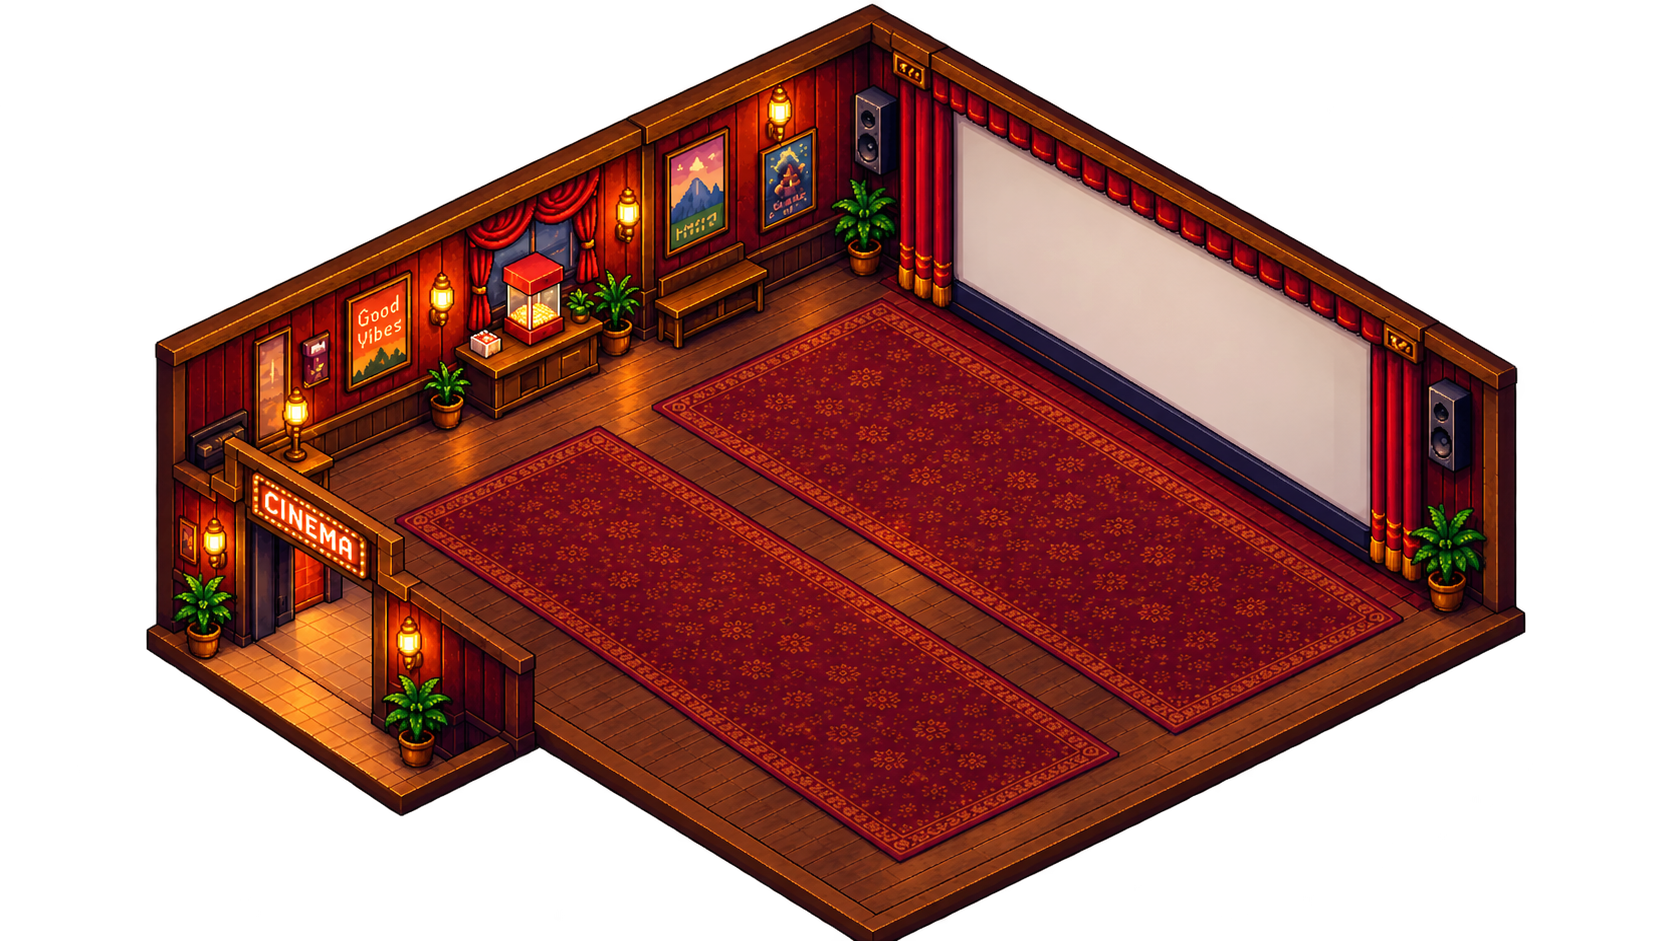
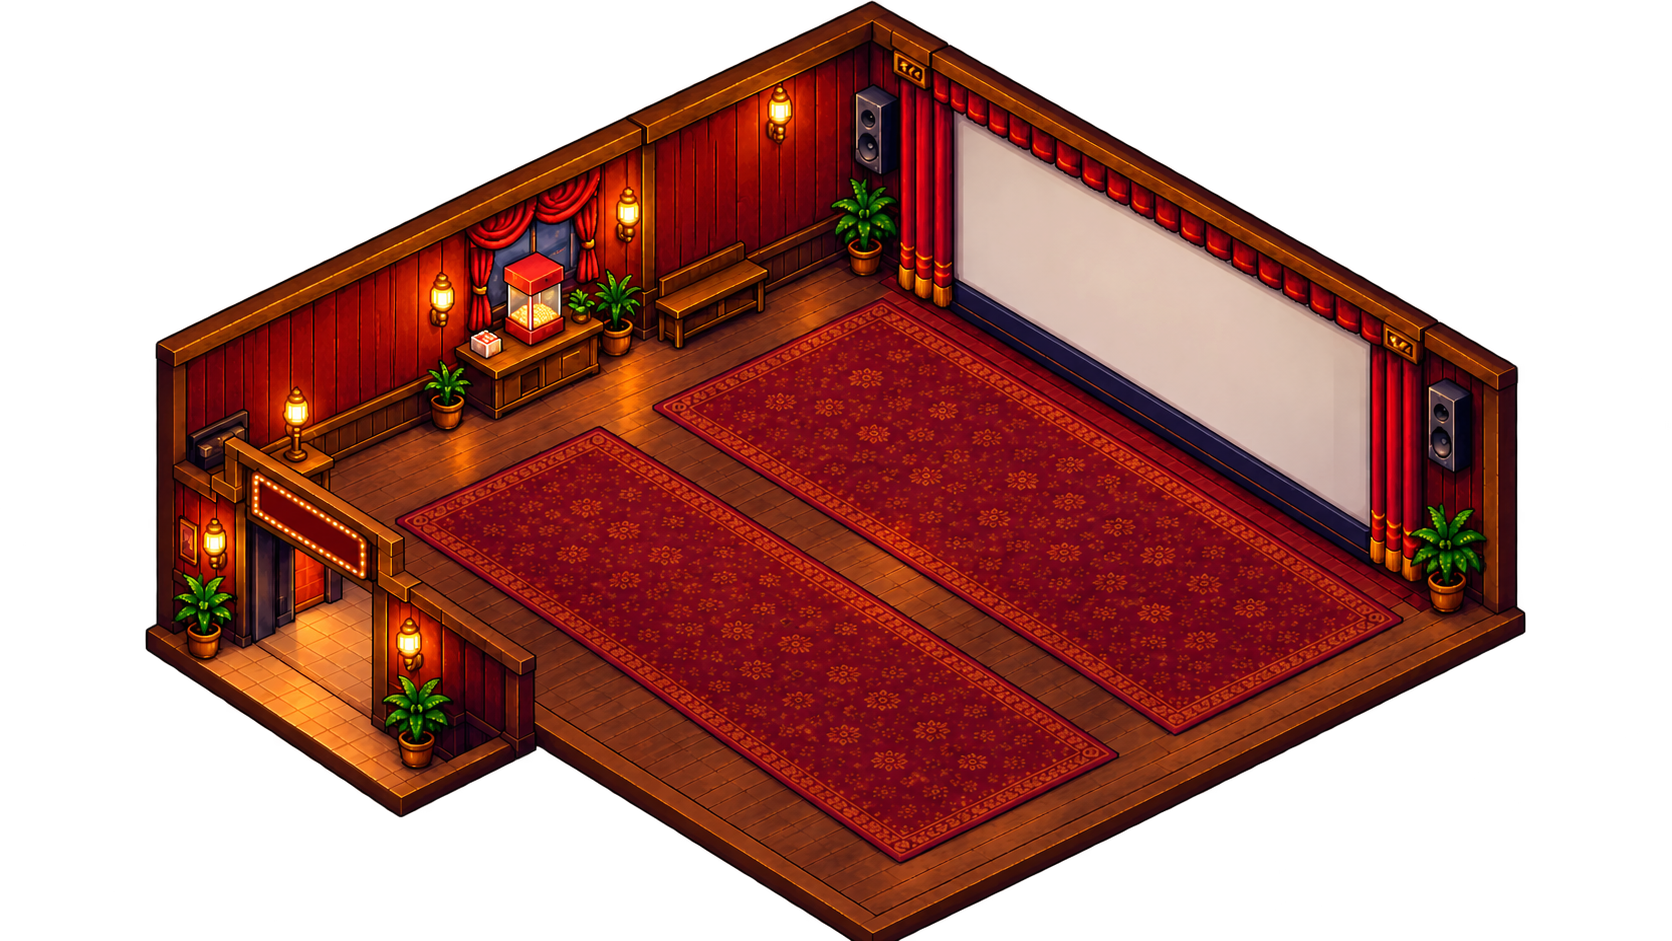
Add customizable wall posters and fitted marquee text

diff --git a/js/decor.js b/js/decor.js
@@ -1,0 +1,104 @@
+/* Independent wall art and fitted marquee lettering, cached at scene creation. */
+(function () {
+  'use strict';
+  const VC = window.VC;
+  const D = (VC.Decor = {});
+  // Corners in the original 1672×941 artwork: top-left, top-right, bottom-left.
+  // The frames remain part of each object, rather than part of the room.
+  D.slots = [
+    { id: 'sunset', corners: [[253, 342], [291, 324], [253, 450]] },
+    { id: 'small', corners: [[302, 342], [331, 328], [302, 389]] },
+    { id: 'goodVibes', corners: [[344, 300], [413, 267], [344, 396]] },
+    { id: 'mountains', corners: [[662, 158], [733, 123], [662, 264]] },
+    { id: 'space', corners: [[755, 155], [819, 124], [755, 258]] }
+  ];
+  const replacements = new Map();
+  D.ready = async function (config = {}) {
+    replacements.clear();
+    await Promise.all(D.slots.map(async ({ id }) => {
+      const src = config && config[id];
+      if (typeof src !== 'string' || !src.trim()) return;
+      const image = new Image();
+      try {
+        await new Promise((resolve, reject) => {
+          image.onload = resolve;
+          image.onerror = reject;
+          image.src = src;
+        });
+        replacements.set(id, image);
+      } catch (_) {
+        console.warn('Cannot load poster ' + id + ': ' + src + '; using bundled artwork');
+      }
+    }));
+  };
+
+  function canvas(w, h) {
+    const c = document.createElement('canvas');
+    c.width = w;
+    c.height = h;
+    return c;
+  }
+  D.posters = function (atlas, config = {}) {
+    return D.slots.filter(({ id }) => !config || config[id] !== null).map(({ id, corners }) => {
+      const [a, b, d] = corners;
+      const c = [b[0] + d[0] - a[0], b[1] + d[1] - a[1]];
+      const points = [a, b, c, d];
+      const x = Math.floor(Math.min(...points.map(p => p[0])) - 2);
+      const y = Math.floor(Math.min(...points.map(p => p[1])) - 2);
+      const w = Math.ceil(Math.max(...points.map(p => p[0])) - x + 2);
+      const h = Math.ceil(Math.max(...points.map(p => p[1])) - y + 2);
+      const image = canvas(w, h), ctx = image.getContext('2d');
+      ctx.filter = 'brightness(.9) saturate(.94)';
+      ctx.translate(-x, -y);
+      ctx.beginPath();
+      points.forEach((p, i) => i ? ctx.lineTo(...p) : ctx.moveTo(...p));
+      ctx.closePath();
+      ctx.clip();
+      ctx.drawImage(atlas, 0, 0);
+      const replacement = replacements.get(id);
+      if (replacement) {
+        // Derive each frame's aspect ratio before applying the wall shear.
+        // The narrow sunset frame must not stretch a standard poster texture.
+        const height = 240 * (d[1] - a[1]) / (b[0] - a[0]);
+        ctx.transform((b[0] - a[0]) / 240, (b[1] - a[1]) / 240,
+          (d[0] - a[0]) / height, (d[1] - a[1]) / height, ...a);
+        // Keep the original frame. Crop the replacement centrally, without distortion.
+        const iw = 204, ih = height * 316 / 360;
+        const scale = Math.max(iw / replacement.width, ih / replacement.height);
+        const sw = iw / scale, sh = ih / scale;
+        ctx.drawImage(replacement, (replacement.width - sw) / 2, (replacement.height - sh) / 2,
+          sw, sh, 18, height * 22 / 360, iw, ih);
+      }
+      return { id, image, x: 12 + x * 936 / 1672, y: 6 + y * 527 / 941,
+        w: w * 936 / 1672, h: h * 527 / 941 };
+    });
+  };
+
+  D.sign = function (value) {
+    const text = String(value ?? 'CINEMA').replace(/\s+/gu, ' ').trim();
+    const image = canvas(640, 160), ctx = image.getContext('2d');
+    ctx.font = '700 120px "Pixelify Sans", "Trebuchet MS", sans-serif';
+    const metrics = ctx.measureText(text);
+    const left = metrics.actualBoundingBoxLeft || 0;
+    const right = metrics.actualBoundingBoxRight || metrics.width;
+    const ascent = metrics.actualBoundingBoxAscent || 90;
+    const descent = metrics.actualBoundingBoxDescent || 0;
+    const width = Math.max(metrics.width, left + right, 1);
+    const height = Math.max(ascent + descent, 1);
+    const scale = Math.min(592 / width, 128 / height);
+    ctx.translate(image.width / 2, image.height / 2);
+    ctx.scale(scale, scale);
+    ctx.fillStyle = '#ffe7a4';
+    ctx.shadowColor = '#ffad48';
+    ctx.shadowBlur = 4;
+    ctx.fillText(text, (left - right) / 2, (ascent - descent) / 2);
+    return { text, image, scale, width: width * scale, height: height * scale };
+  };
+  // Draw within the painted lightbox; the affine transform follows its facade.
+  D.drawSign = function (ctx, sign) {
+    ctx.save();
+    ctx.transform(94 / 640, 53 / 640, 0, 24 / 160, 262, 486);
+    ctx.drawImage(sign.image, 0, 0);
+    ctx.restore();
+  };
+})();

diff --git a/js/scene.js b/js/scene.js
@@ -539,7 +539,7 @@
     plant(ctx, 0.4, y + 1.35, 1.1);
     plant(ctx, 4.8, y + 1.35, 1.1);
   }
-  function entrance(ctx) {
+  function entrance(ctx, signText) {
     const y = L.D + 0.05,
       a = L.DOOR_X0,
       b = L.DOOR_X1,
@@ -564,7 +564,7 @@
       box(ctx, x, y - 0.1, 0.13, 0.25, 0, h + 0.1, '#c28e50', '#8d5534', '#422832');
     line(ctx, face(a + 0.03, h), face(b - 0.03, h), '#d3a263', 2);
     line(ctx, face(0, 4.2), face(5.3, 4.2), '#cc9551', 3);
-    // Warm lightbox and hand-rastered 5x7 lettering, projected down-right.
+    // Warm lightbox with fitted lettering, projected down-right.
     poly(
       ctx,
       [
@@ -587,33 +587,15 @@
       '#70382a',
       '#ffd381'
     );
-    const letters = {
-      C: ['01111', '11000', '11000', '11000', '11000', '11000', '01111'],
-      I: ['11111', '00100', '00100', '00100', '00100', '00100', '11111'],
-      N: ['10001', '11001', '11001', '10101', '10011', '10011', '10001'],
-      E: ['11111', '10000', '10000', '11110', '10000', '10000', '11111'],
-      M: ['10001', '11011', '10101', '10101', '10001', '10001', '10001'],
-      A: ['01110', '11011', '10001', '10001', '11111', '10001', '10001']
-    };
-    'CINEMA'.split('').forEach((letter, i) =>
-      letters[letter].forEach((row, j) =>
-        row.split('').forEach((v, k) => {
-          if (v === '0') return;
-          const x = 0.82 + (i * 6 + k) * 0.105,
-            z = 3.83 - j * 0.062;
-          poly(
-            ctx,
-            [
-              [x, y + 0.23, z],
-              [x + 0.089, y + 0.23, z],
-              [x + 0.089, y + 0.23, z - 0.052],
-              [x, y + 0.23, z - 0.052]
-            ],
-            '#ffe7a4'
-          );
-        })
-      )
-    );
+    const sign = VC.Decor.sign(signText);
+    const p = P(0.5, y + 0.23, 3.88),
+      q = P(4.8, y + 0.23, 3.88),
+      r = P(0.5, y + 0.23, 3.36);
+    ctx.save();
+    ctx.transform((q.x - p.x) / 640, (q.y - p.y) / 640,
+      (r.x - p.x) / 160, (r.y - p.y) / 160, p.x, p.y);
+    ctx.drawImage(sign.image, 0, 0);
+    ctx.restore();
     for (let x = 0.45; x < 5; x += 0.23)
       for (const z of [3.3, 3.95]) dot(ctx, x, y + 0.23, z, '#ffeaa1', 1);
     lantern(ctx, (x, z) => [x, y + 0.15, z], 0.57, 2.1);
@@ -770,8 +752,8 @@
     });
     return { cushion: cushion.c, back: backLayer.c, ax, ay };
   }
-  VC.buildScene = function () {
-    if (VC.Art.available) return VC.Art.scene();
+  VC.buildScene = function (opts = {}) {
+    if (VC.Art.available) return VC.Art.scene(opts);
     const bg = canvas(L.VIEW_W, L.VIEW_H),
       fg = canvas(L.VIEW_W, L.VIEW_H),
       ctx = bg.ctx;
@@ -840,7 +822,7 @@
     }
     counter(ctx);
     entranceFloor(ctx);
-    entrance(fg.ctx);
+    entrance(fg.ctx, opts.signText);
     plant(ctx, 0.7, 1.0, 1.0);
     plant(ctx, L.W - 0.7, 0.8, 1.1);
     plant(ctx, 0.65, 14.3, 0.85);

diff --git a/js/art.js b/js/art.js
@@ -5,6 +5,7 @@
   const A = (VC.Art = { images: {}, ready: null, available: false });
   const sources = {
     room: 'assets/art/cinema-room.png',
+    posters: 'assets/art/cinema-posters.png',
     chair: 'assets/art/cinema-chair.png',
     viewers: 'assets/art/viewers.png',
     viewersExtra: 'assets/art/viewers-extra.png'
@@ -80,7 +81,7 @@
     c.height = h;
     return c;
   }
-  A.scene = function () {
+  A.scene = function (opts = {}) {
     const L = VC.Layout,
       bg = canvas(1920, 1080),
       fg = canvas(1920, 1080);
@@ -90,7 +91,13 @@
     ctx.imageSmoothingQuality = 'high';
     ctx.filter = 'brightness(.9) saturate(.94)';
     // Preserve the original fine detail: no low-resolution intermediate canvas.
-    ctx.drawImage(A.images.room, 24, 12, 1872, 1054);
+    const sign = VC.Decor.sign(opts.signText);
+    // Use the identical decorated room for the background and facade mask,
+    // so the foreground cannot cover the configurable text with old pixels.
+    const room = canvas(1672, 941), roomCtx = room.getContext('2d');
+    roomCtx.drawImage(A.images.room, 0, 0);
+    VC.Decor.drawSign(roomCtx, sign);
+    ctx.drawImage(room, 24, 12, 1872, 1054);
     const F = (x, y) => ({ x: 12 + x * 0.56, y: 6 + y * 0.56 });
     // Foreground facade, including its genuine door opening. Copy the painted
     // pixels after the actors so walkers pass behind the wall and through the door.
@@ -114,7 +121,7 @@
     });
     front.closePath();
     front.clip();
-    front.drawImage(A.images.room, 12, 6, 936, 527);
+    front.drawImage(room, 12, 6, 936, 527);
     front.restore();
     front.save();
     front.scale(2, 2);
@@ -134,7 +141,8 @@
       col: '255,172,74',
       a: 0.035
     }));
-    return { bg, fg, seats: A.seats(), lights, screenGlow: F(1190, 465), illustrated: true };
+    return { bg, fg, posters: VC.Decor.posters(A.images.posters, opts.posters), sign,
+      seats: A.seats(), lights, screenGlow: F(1190, 465), illustrated: true };
   };
   A.railings = function (ctx) {
     const L = VC.Layout,

diff --git a/js/main.js b/js/main.js
@@ -20,6 +20,7 @@
     if (q.has('bg')) base.background = q.get('bg');
     if (q.has('seats')) base.maxSeats = num(q.get('seats'), base.maxSeats);
     if (q.has('counter')) base.showCounter = bool(q.get('counter'));
+    if (q.has('sign')) base.signText = q.get('sign');
     if (q.has('initial')) base.initialEntrance = q.get('initial');
     if (q.has('debug')) base.debug = bool(q.get('debug'));
     if (q.has('remember')) base.rememberAudience = bool(q.get('remember'));
@@ -41,6 +42,11 @@
   async function start() {
     await VC.Art.ready;
     const cfg = readConfig();
+    // Cached decoration text must be measured with the actual bundled font.
+    if (document.fonts && document.fonts.load) {
+      await document.fonts.load('700 48px "Pixelify Sans"').catch(() => {});
+    }
+    await VC.Decor.ready(cfg.posters);
     VC.log.enabled = !!cfg.debug;
     applyBackground(cfg.background);
 
@@ -48,6 +54,8 @@
     const audience = new VC.Audience({ seats, leaveGraceMs: Math.max(0, cfg.leaveGraceSeconds) * 1000 });
     const renderer = new VC.Renderer(document.getElementById('stage'), {
       showCounter: cfg.showCounter !== false,
+      signText: cfg.signText ?? 'CINEMA',
+      posters: cfg.posters,
       counterLabel: cfg.counterLabel || 'Зрители'
     });
     renderer.setSeats(seats);

diff --git a/config.js b/config.js
@@ -32,6 +32,10 @@ window.CINEMA_CONFIG = {
   maxSeats: 60,             // ?seats= cap (layout has 60 seats)
   showCounter: true,        // ?counter=0 hides "Зрители"
   counterLabel: 'Зрители',
+  signText: 'CINEMA',        // ?sign= название на вывеске; длинный текст автоматически уменьшается
+  // Independent wall posters: omitted = bundled art, null = hide, string = replacement image.
+  // Use local paths, e.g. goodVibes: 'assets/my-poster.png'. Images fit inside the existing frames.
+  posters: {},              // sunset, small, goodVibes, mountains, space
   initialEntrance: 'seated',  // ?initial=walk | seated  (how viewers present at page load appear)
 
   rememberAudience: true,   // ?remember=0 disables local audience persistence

diff --git a/js/renderer.js b/js/renderer.js
@@ -16,7 +16,7 @@
     constructor(root, opts) {
       this.root = root;
       this.opts = opts;
-      this.scene = VC.buildScene();
+      this.scene = VC.buildScene(opts);
 
       this.world = document.createElement('canvas');
       this.world.className = 'world';
@@ -107,6 +107,9 @@
       const S = this.scene;
       ctx.clearRect(0, 0, L.VIEW_W, L.VIEW_H);
       ctx.drawImage(S.bg, 0, 0, L.VIEW_W, L.VIEW_H);
+      if (S.posters) S.posters.forEach((poster) => {
+        ctx.drawImage(poster.image, poster.x, poster.y, poster.w, poster.h);
+      });
       this.drawLights(time, true);
 
       const items = this.seatItems.slice();

diff --git a/index.html b/index.html
@@ -15,6 +15,7 @@
   <script src="js/viewer-sync.js"></script>
   <script src="js/layout.js"></script>
   <script src="js/seats.js"></script>
+  <script src="js/decor.js"></script>
   <script src="js/art.js"></script>
   <script src="js/characters.js"></script>
   <script src="js/actors.js"></script>

diff --git a/tests/run_tests.py b/tests/run_tests.py
@@ -110,6 +110,64 @@ def main():
         check('SHA-256 (JS fallback and WebCrypto) match Node crypto', ok and js_hash == node_hash == sub_hash, node_hash)
         pg.close()
 
+        # ---------------------------------------------------------------- independent decor
+        pg = browser.new_page(viewport={'width': 1920, 'height': 1080})
+        pg.goto(PAGE + '?demo=1&remember=0')
+        pg.wait_for_function('window.__cinema !== undefined')
+        decor = pg.evaluate('''() => {
+            const scene = __cinema.renderer.scene;
+            return {ids: scene.posters.map(p => p.id),
+                distinct: new Set(scene.posters.map(p => p.image)).size,
+                sign: scene.sign.text};
+        }''')
+        check('decor. five posters are separate cached objects', decor['ids'] ==
+              ['sunset', 'small', 'goodVibes', 'mountains', 'space'] and decor['distinct'] == 5)
+        check('decor. default marquee text is CINEMA', decor['sign'] == 'CINEMA')
+        custom = pg.evaluate('''async () => {
+            const before = __cinema.renderer.scene;
+            const replacement = document.createElement('canvas');
+            replacement.width = replacement.height = 16;
+            const ctx = replacement.getContext('2d');
+            ctx.fillStyle = '#00ff00'; ctx.fillRect(0, 0, 16, 16);
+            await VC.Decor.ready({goodVibes: replacement.toDataURL()});
+            const after = VC.buildScene({posters: {small: null}, signText: 'Мой канал'});
+            const pixels = s => Array.from(s.image.getContext('2d')
+                .getImageData(0, 0, s.image.width, s.image.height).data);
+            const oldGood = pixels(before.posters.find(p => p.id === 'goodVibes'));
+            const newGood = pixels(after.posters.find(p => p.id === 'goodVibes'));
+            const untouched = before.posters.filter(p => !['goodVibes', 'small'].includes(p.id))
+                .every(p => JSON.stringify(pixels(p)) ===
+                    JSON.stringify(pixels(after.posters.find(q => q.id === p.id))));
+            const b = after.bg.getContext('2d');
+            // This point falls inside the old Good Vibes artwork; the room itself
+            // must now contain red wall, even when no poster object is drawn.
+            const wall = b.getImageData(450, 390, 1, 1).data;
+            return {ids: after.posters.map(p => p.id), untouched,
+                replaced: JSON.stringify(oldGood) !== JSON.stringify(newGood),
+                wall: wall[0] > wall[1] * 1.5 && wall[0] > wall[2] * 1.5};
+        }''')
+        check('decor. replacement changes only its own poster', custom['replaced'] and custom['untouched'])
+        check('decor. individual posters can be hidden', 'small' not in custom['ids'] and len(custom['ids']) == 4)
+        check('decor. room underneath posters is clean wall', custom['wall'])
+        for label, query, expected in [
+            ('short', 'MyChannel', 'MyChannel'),
+            ('Cyrillic', '%D0%9C%D0%BE%D0%B9%20%D0%BA%D0%B0%D0%BD%D0%B0%D0%BB', 'Мой канал'),
+            ('long', 'LongChannelName' * 20, 'LongChannelName' * 20),
+            ('empty', '', '')
+        ]:
+            pg.goto(PAGE + '?demo=1&remember=0&sign=' + query)
+            pg.wait_for_function('window.__cinema !== undefined')
+            fitted = pg.evaluate('''() => {
+                const s = __cinema.renderer.scene.sign;
+                const pixels = s.image.getContext('2d').getImageData(0,0,640,160).data;
+                return {text: s.text, width: s.width, height: s.height,
+                    visible: pixels.some((v, i) => i % 4 === 3 && v > 0)};
+            }''')
+            check('decor. ' + label + ' marquee fits its panel', fitted['text'] == expected and
+                  fitted['width'] <= 592.001 and fitted['height'] <= 128.001 and
+                  fitted['visible'] == bool(expected))
+        pg.close()
+
         # ---------------------------------------------------------------- 1. empty list
         m = Mock(18080)
         m.set([])

diff --git a/assets/art/README.md b/assets/art/README.md
@@ -2,8 +2,11 @@
 
 Bundled, generated illustrations used by the overlay; no remote image requests at runtime.
 
-- `cinema-room.png`: transparent cutaway interior, illuminated CINEMA facade, wall lights and shadows. No people or seats are baked into this image.
+- `cinema-room.png`: transparent cutaway interior, blank illuminated marquee, wall lights and shadows. The five customizable wall posters, marquee lettering, people and seats are not baked into this image. The tiny decorative plaque beside the entrance is part of the facade.
+- `cinema-posters.png`: original artwork retained as a source atlas for the five wall posters and their frames. Only the polygonal poster crops are rendered; the rest of this atlas is not used as the room background. `js/decor.js` defines independent cached objects and their placement. Each can be replaced with a local image or hidden through `CINEMA_CONFIG.posters`.
 - `cinema-chair.png`: transparent velvet chair, sampled into a cached seat layer with a floor contact shadow.
 - `viewers.png`, `viewers-extra.png`: two transparent sheets, each with four character rows and three pose columns (front, walking back, seated).
 
 `js/art.js` contains the source crop rectangles, native canvas caches, facade occlusion mask, lighting positions and stable wardrobe variants. The composition renders in 1920×1080. Movement uses logical coordinates from `js/layout.js`; its projection is calibrated against this room artwork. When replacing an image, update that calibration and inspect both seated and walking viewers, including the entrance and a full hall.
+
+Marquee lettering is generated by `js/decor.js` from `signText` (or `?sign=`), after loading the bundled font. Its measured glyph bounds fit a fixed canvas, which is projected onto the marquee. The decorated facade is shared by the background and foreground occlusion layer, preventing the foreground from covering custom text.
